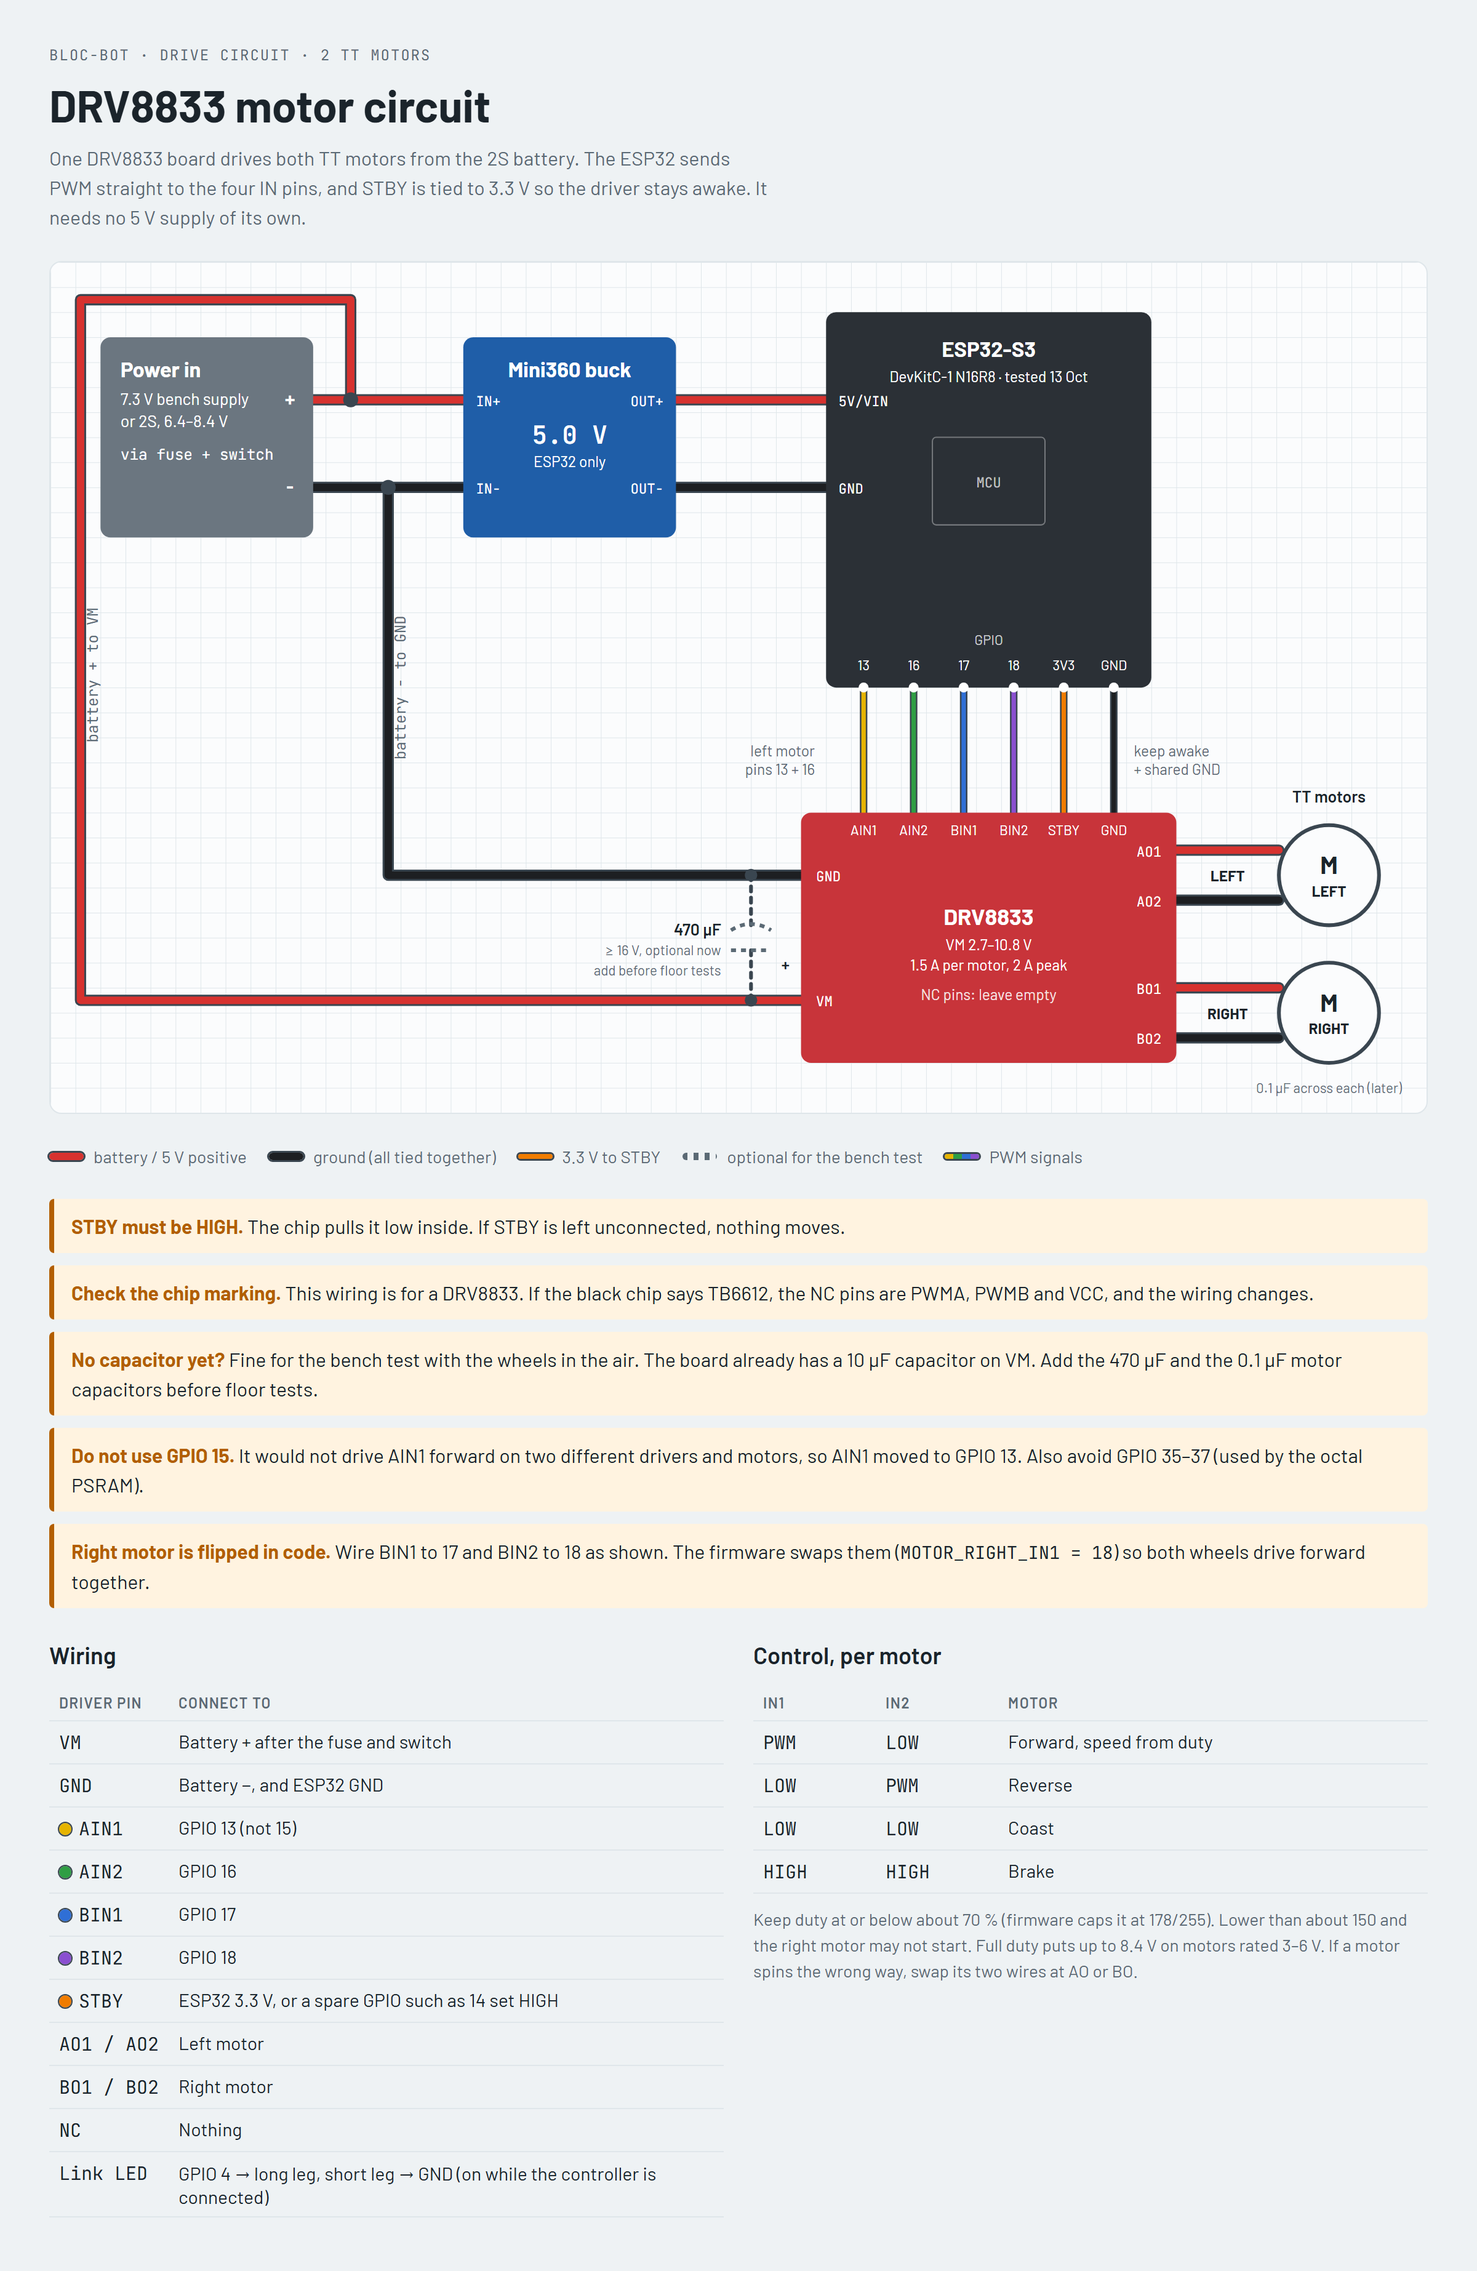
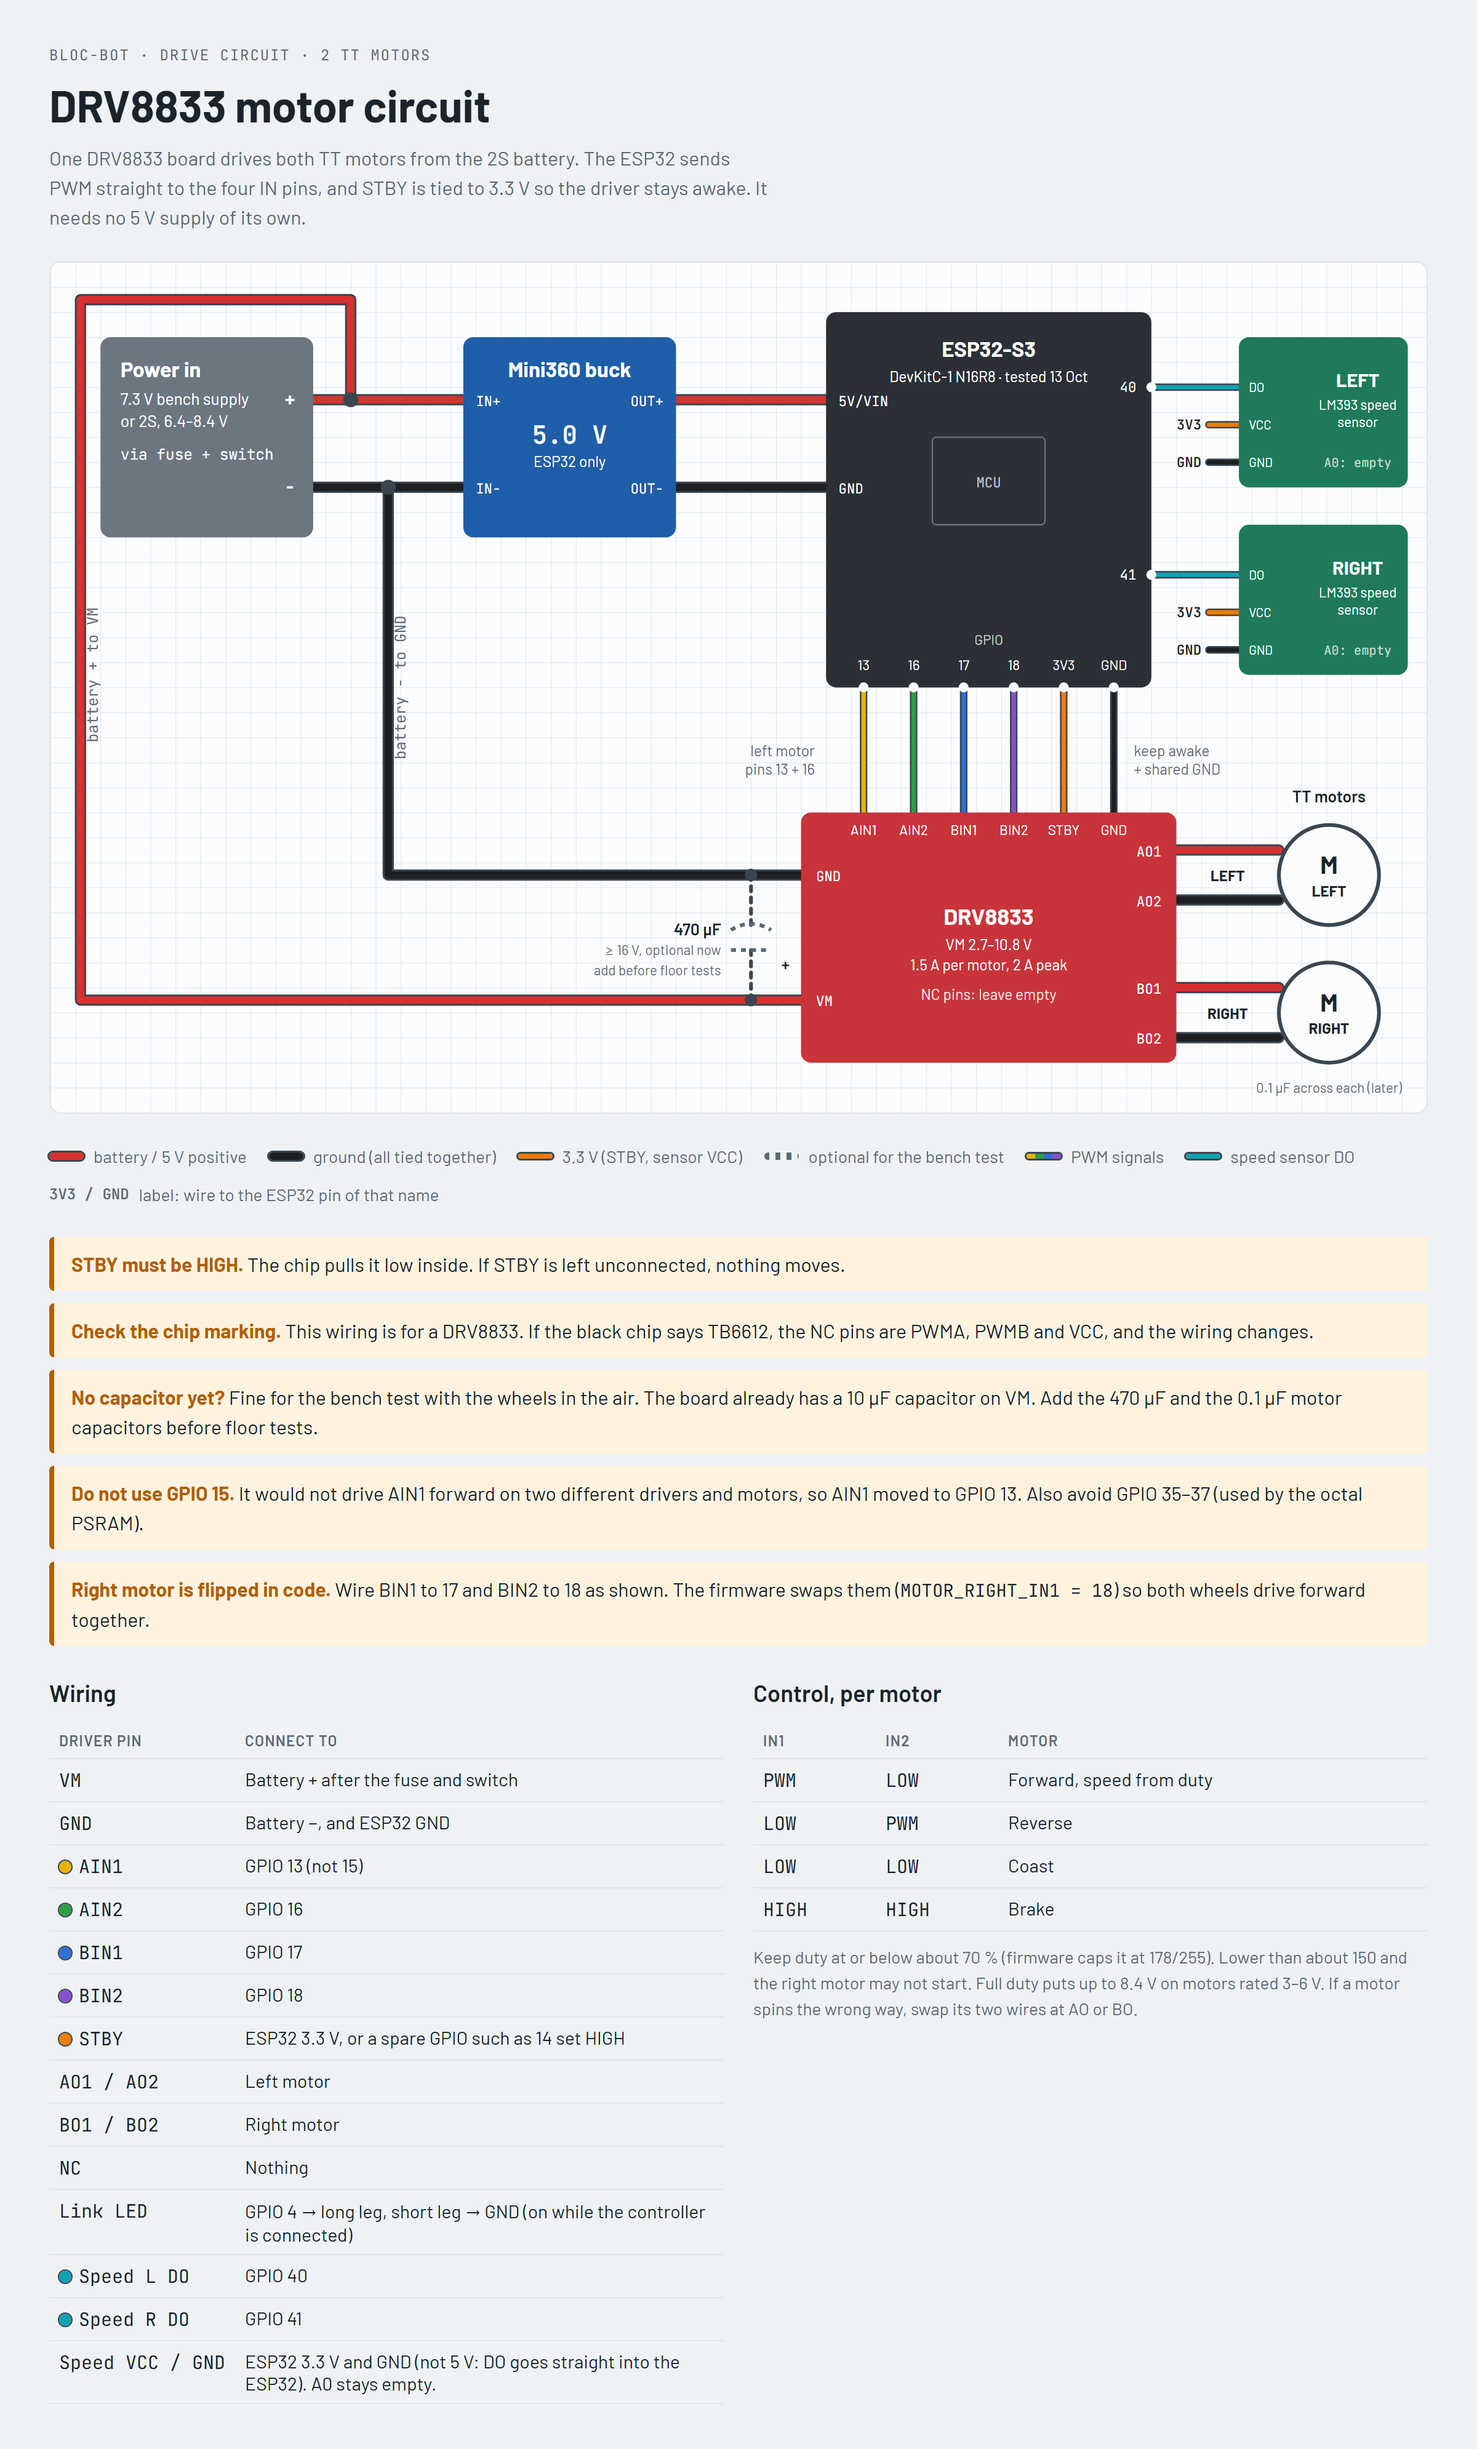
Add LM393 speed sensors to the DRV8833 diagram
Left DO on GPIO 40, right DO on GPIO 41, VCC on ESP32 3.3 V.

diff --git a/circuits/src/drv8833_motor_circuit.html b/circuits/src/drv8833_motor_circuit.html
@@ -20,6 +20,8 @@
   --pcb-esp: #2b3036;
   --pcb-drv: #c8343a;
   --pcb-supply: #6b7680;
+  --pcb-sens: #1f7a5a;
+  --w-teal: #0fa3b1;
   --on-pcb: #ffffff;
   --warn: #b25e00;
   --warn-bg: #fff3e0;
@@ -30,7 +32,7 @@
   :root:not([data-theme="light"]) {
     --bg: #11161a; --sheet: #182026; --ink: #e4eaee; --muted: #93a3ae; --grid: #222c33;
     --casing: #9fb0bb; --w-black: #23262a;
-    --pcb-buck: #2b6cb8; --pcb-esp: #3a414a; --pcb-drv: #c23a40; --pcb-supply: #56616b;
+    --pcb-buck: #2b6cb8; --pcb-esp: #3a414a; --pcb-drv: #c23a40; --pcb-supply: #56616b; --pcb-sens: #24805f;
     --warn: #ffb560; --warn-bg: #2b2114;
     color-scheme: dark;
   }
@@ -38,7 +40,7 @@
 :root[data-theme="dark"] {
   --bg: #11161a; --sheet: #182026; --ink: #e4eaee; --muted: #93a3ae; --grid: #222c33;
   --casing: #9fb0bb; --w-black: #23262a;
-  --pcb-buck: #2b6cb8; --pcb-esp: #3a414a; --pcb-drv: #c23a40; --pcb-supply: #56616b;
+  --pcb-buck: #2b6cb8; --pcb-esp: #3a414a; --pcb-drv: #c23a40; --pcb-supply: #56616b; --pcb-sens: #24805f;
   --warn: #ffb560; --warn-bg: #2b2114;
   color-scheme: dark;
 }
@@ -80,7 +82,7 @@ td.pin { font-family: var(--font-mono); font-variant-numeric: tabular-nums; whit
     <p class="lede">One DRV8833 board drives both TT motors from the 2S battery. The ESP32 sends PWM straight to the four IN pins, and STBY is tied to 3.3&nbsp;V so the driver stays awake. It needs no 5&nbsp;V supply of its own.</p>
   </header>
 
-  <div class="sheet" role="img" aria-label="Wiring diagram: supply feeds the buck converter and the DRV8833 VM pin with an optional 470 microfarad capacitor; buck 5 V powers the ESP32; ESP32 GPIO 13, 16, 17, 18 go to AIN1, AIN2, BIN1, BIN2; ESP32 3.3 V goes to STBY; ESP32 GND goes to driver GND; AO1 and AO2 go to the left motor; BO1 and BO2 go to the right motor.">
+  <div class="sheet" role="img" aria-label="Wiring diagram: supply feeds the buck converter and the DRV8833 VM pin with an optional 470 microfarad capacitor; buck 5 V powers the ESP32; ESP32 GPIO 13, 16, 17, 18 go to AIN1, AIN2, BIN1, BIN2; ESP32 3.3 V goes to STBY; ESP32 GND goes to driver GND; AO1 and AO2 go to the left motor; BO1 and BO2 go to the right motor; left and right LM393 speed sensors send DO to GPIO 40 and 41 and take 3.3 V and GND from the ESP32.">
     <svg viewBox="0 0 1100 680" xmlns="http://www.w3.org/2000/svg">
       <defs>
         <pattern id="g" width="20" height="20" patternUnits="userSpaceOnUse">
@@ -124,6 +126,22 @@ td.pin { font-family: var(--font-mono); font-variant-numeric: tabular-nums; whit
         <path d="M810 340V440" stroke="var(--w-orange)" stroke-width="3.5"/>
         <path d="M850 340V440" stroke="var(--casing)" stroke-width="6"/>
         <path d="M850 340V440" stroke="var(--w-black)" stroke-width="3.5"/>
+      </g>
+
+      <!-- ===== Speed sensor wires (VCC/GND end in net labels: tie to ESP32 3V3 and GND) ===== -->
+      <g class="wires">
+        <path d="M880 100H950" stroke="var(--casing)" stroke-width="6"/>
+        <path d="M880 100H950" stroke="var(--w-teal)" stroke-width="3.5"/>
+        <path d="M926 130H950" stroke="var(--casing)" stroke-width="6"/>
+        <path d="M926 130H950" stroke="var(--w-orange)" stroke-width="3.5"/>
+        <path d="M926 160H950" stroke="var(--casing)" stroke-width="6"/>
+        <path d="M926 160H950" stroke="var(--w-black)" stroke-width="3.5"/>
+        <path d="M880 250H950" stroke="var(--casing)" stroke-width="6"/>
+        <path d="M880 250H950" stroke="var(--w-teal)" stroke-width="3.5"/>
+        <path d="M926 280H950" stroke="var(--casing)" stroke-width="6"/>
+        <path d="M926 280H950" stroke="var(--w-orange)" stroke-width="3.5"/>
+        <path d="M926 310H950" stroke="var(--casing)" stroke-width="6"/>
+        <path d="M926 310H950" stroke="var(--w-black)" stroke-width="3.5"/>
       </g>
 
       <!-- ===== Motor wires ===== -->
@@ -205,6 +223,36 @@ td.pin { font-family: var(--font-mono); font-variant-numeric: tabular-nums; whit
       <text x="866" y="395" font-size="12" class="muted">keep awake</text>
       <text x="866" y="410" font-size="12" class="muted">+ shared GND</text>
 
+      <!-- ===== Speed sensors ===== -->
+      <rect x="950" y="60" width="135" height="120" rx="8" fill="var(--pcb-sens)"/>
+      <text x="1045" y="100" class="onpcb" font-size="15" font-weight="700" text-anchor="middle">LEFT</text>
+      <text x="1045" y="118" class="onpcb" font-size="11" text-anchor="middle">LM393 speed</text>
+      <text x="1045" y="132" class="onpcb" font-size="11" text-anchor="middle">sensor</text>
+      <text x="1045" y="164" class="onpcb mono" font-size="10" text-anchor="middle" opacity=".75">A0: empty</text>
+      <g class="onpcb mono" font-size="10">
+        <text x="958" y="104" class="onpcb">DO</text>
+        <text x="958" y="134" class="onpcb">VCC</text>
+        <text x="958" y="164" class="onpcb">GND</text>
+      </g>
+      <text x="868" y="104" class="onpcb mono" font-size="11" text-anchor="end">40</text>
+      <circle cx="880" cy="100" r="4" fill="var(--on-pcb)"/>
+      <rect x="950" y="210" width="135" height="120" rx="8" fill="var(--pcb-sens)"/>
+      <text x="1045" y="250" class="onpcb" font-size="15" font-weight="700" text-anchor="middle">RIGHT</text>
+      <text x="1045" y="268" class="onpcb" font-size="11" text-anchor="middle">LM393 speed</text>
+      <text x="1045" y="282" class="onpcb" font-size="11" text-anchor="middle">sensor</text>
+      <text x="1045" y="314" class="onpcb mono" font-size="10" text-anchor="middle" opacity=".75">A0: empty</text>
+      <g class="onpcb mono" font-size="10">
+        <text x="958" y="254" class="onpcb">DO</text>
+        <text x="958" y="284" class="onpcb">VCC</text>
+        <text x="958" y="314" class="onpcb">GND</text>
+      </g>
+      <text x="868" y="254" class="onpcb mono" font-size="11" text-anchor="end">41</text>
+      <circle cx="880" cy="250" r="4" fill="var(--on-pcb)"/>
+      <text x="920" y="134" class="mono" font-size="11" font-weight="600" text-anchor="end">3V3</text>
+      <text x="920" y="164" class="mono" font-size="11" font-weight="600" text-anchor="end">GND</text>
+      <text x="920" y="284" class="mono" font-size="11" font-weight="600" text-anchor="end">3V3</text>
+      <text x="920" y="314" class="mono" font-size="11" font-weight="600" text-anchor="end">GND</text>
+
       <!-- ===== DRV8833 ===== -->
       <rect x="600" y="440" width="300" height="200" rx="8" fill="var(--pcb-drv)"/>
       <g class="onpcb mono" font-size="11" text-anchor="middle">
@@ -243,9 +291,11 @@ td.pin { font-family: var(--font-mono); font-variant-numeric: tabular-nums; whit
   <div class="legend">
     <span><i class="sw" style="background:var(--w-red)"></i>battery / 5 V positive</span>
     <span><i class="sw" style="background:var(--w-black)"></i>ground (all tied together)</span>
-    <span><i class="sw" style="background:var(--w-orange);height:4px"></i>3.3 V to STBY</span>
+    <span><i class="sw" style="background:var(--w-orange);height:4px"></i>3.3 V (STBY, sensor VCC)</span>
     <span><i class="sw" style="background:repeating-linear-gradient(90deg,var(--muted) 0 4px,transparent 4px 9px);outline:none"></i>optional for the bench test</span>
     <span><i class="sw" style="background:linear-gradient(90deg,var(--w-yellow) 25%,var(--w-green) 25% 50%,var(--w-blue) 50% 75%,var(--w-purple) 75%);height:4px"></i>PWM signals</span>
+    <span><i class="sw" style="background:var(--w-teal);height:4px"></i>speed sensor DO</span>
+    <span><b style="font-family:var(--font-mono);font-size:12px">3V3 / GND</b> label: wire to the ESP32 pin of that name</span>
   </div>
 
   <div class="warns">
@@ -274,6 +324,9 @@ td.pin { font-family: var(--font-mono); font-variant-numeric: tabular-nums; whit
             <tr><td class="pin">BO1 / BO2</td><td>Right motor</td></tr>
             <tr><td class="pin">NC</td><td>Nothing</td></tr>
             <tr><td class="pin">Link LED</td><td>GPIO 4 → long leg, short leg → GND (on while the controller is connected)</td></tr>
+            <tr><td class="pin"><i class="dot" style="background:var(--w-teal)"></i>Speed L DO</td><td>GPIO 40</td></tr>
+            <tr><td class="pin"><i class="dot" style="background:var(--w-teal)"></i>Speed R DO</td><td>GPIO 41</td></tr>
+            <tr><td class="pin">Speed VCC / GND</td><td>ESP32 3.3 V and GND (not 5 V: DO goes straight into the ESP32). A0 stays empty.</td></tr>
           </tbody>
         </table>
       </div>

diff --git a/circuits/README.md b/circuits/README.md
@@ -5,7 +5,8 @@ Pictures of the wiring diagrams made for BLOC-BOT. Each PNG has its source page 
 
 | Picture | What it shows | Status |
 |---|---|---|
-| [drv8833_motor_circuit.png](drv8833_motor_circuit.png) | Both TT motors on one DRV8833 driver: power in, 5 V buck for the ESP32, GPIO 13, 16, 17, 18 to AIN/BIN (GPIO 15 dropped), STBY to 3.3 V, link LED on GPIO 4 | Current |
+| [drv8833_motor_circuit.png](drv8833_motor_circuit.png) | Both TT motors on one DRV8833 driver: power in, 5 V buck for the ESP32, GPIO 13, 16, 17, 18 to AIN/BIN (GPIO 15 dropped), STBY to 3.3 V, link LED on GPIO 4, LM393 speed sensors DO on GPIO 40 (L) / 41 (R) | Current |
+| [bloccon_controller_circuit.png](bloccon_controller_circuit.png) | Bloc-Con controller: 18650 → TP4056 → switch → MT3608 (5 V) → ESP32; OLED I²C 21/22, joystick 34/35, HC-SR04 5/18, buttons 12, 13, 14, 27 to GND | Current |
 | [esc_bench_test.png](esc_bench_test.png) | One TT motor on a brushed RC ESC, signal on GPIO 13 | Replaced by the DRV8833 |
 
 Test code for the DRV8833 circuit: [`firmware/drv8833_test`](../firmware/drv8833_test/drv8833_test.ino).
